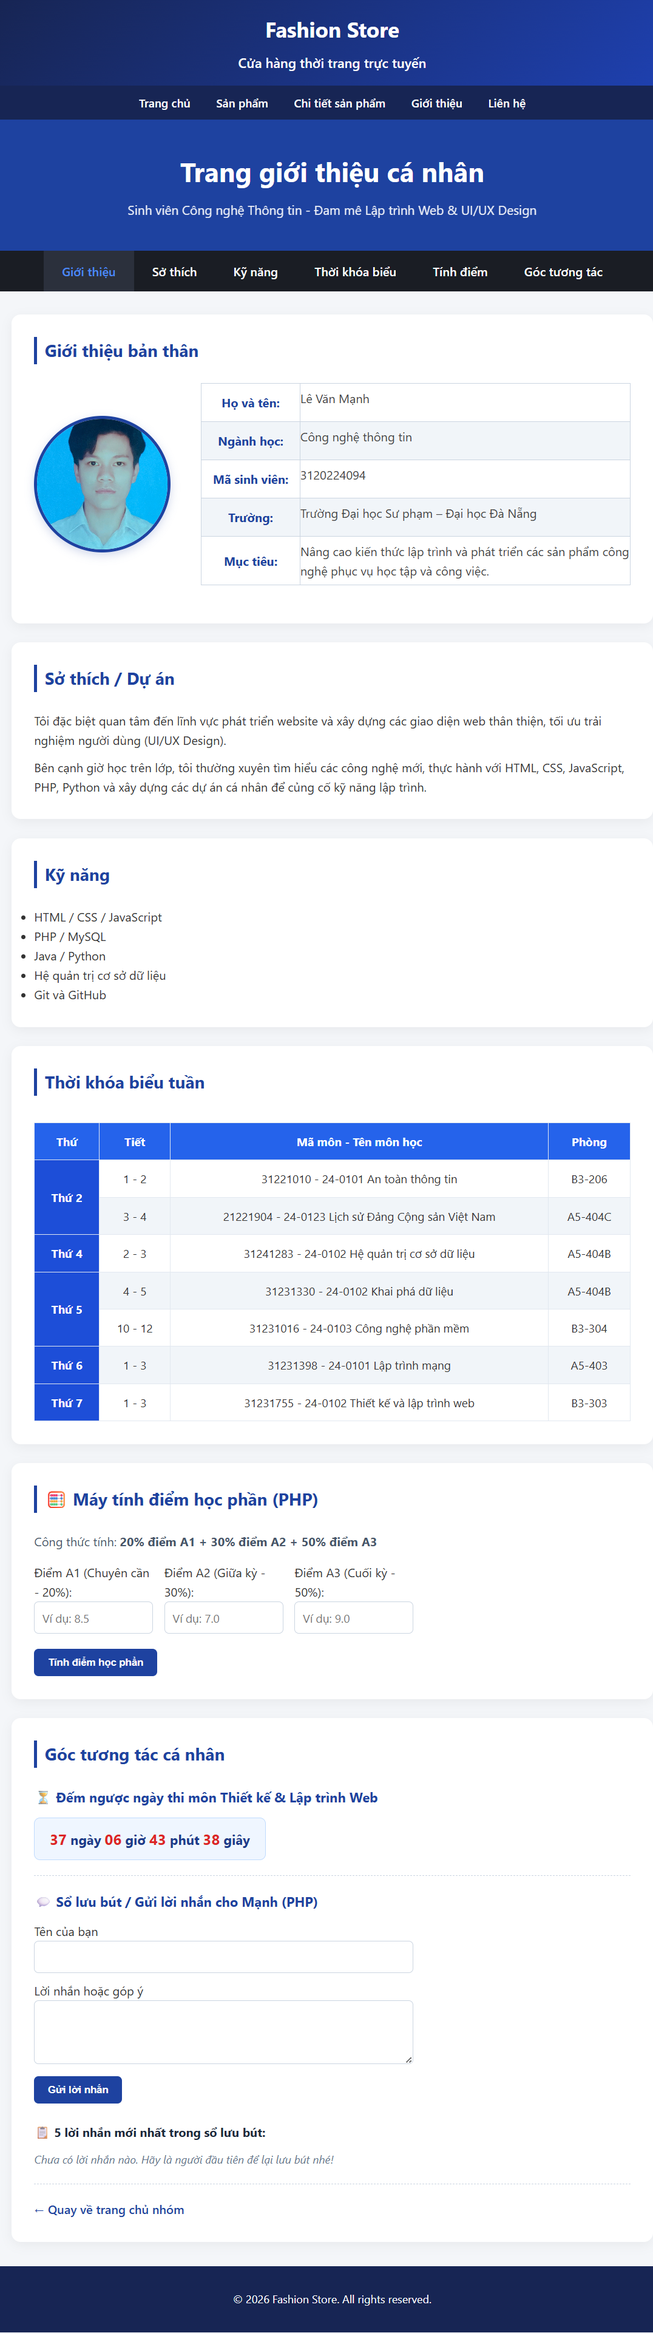
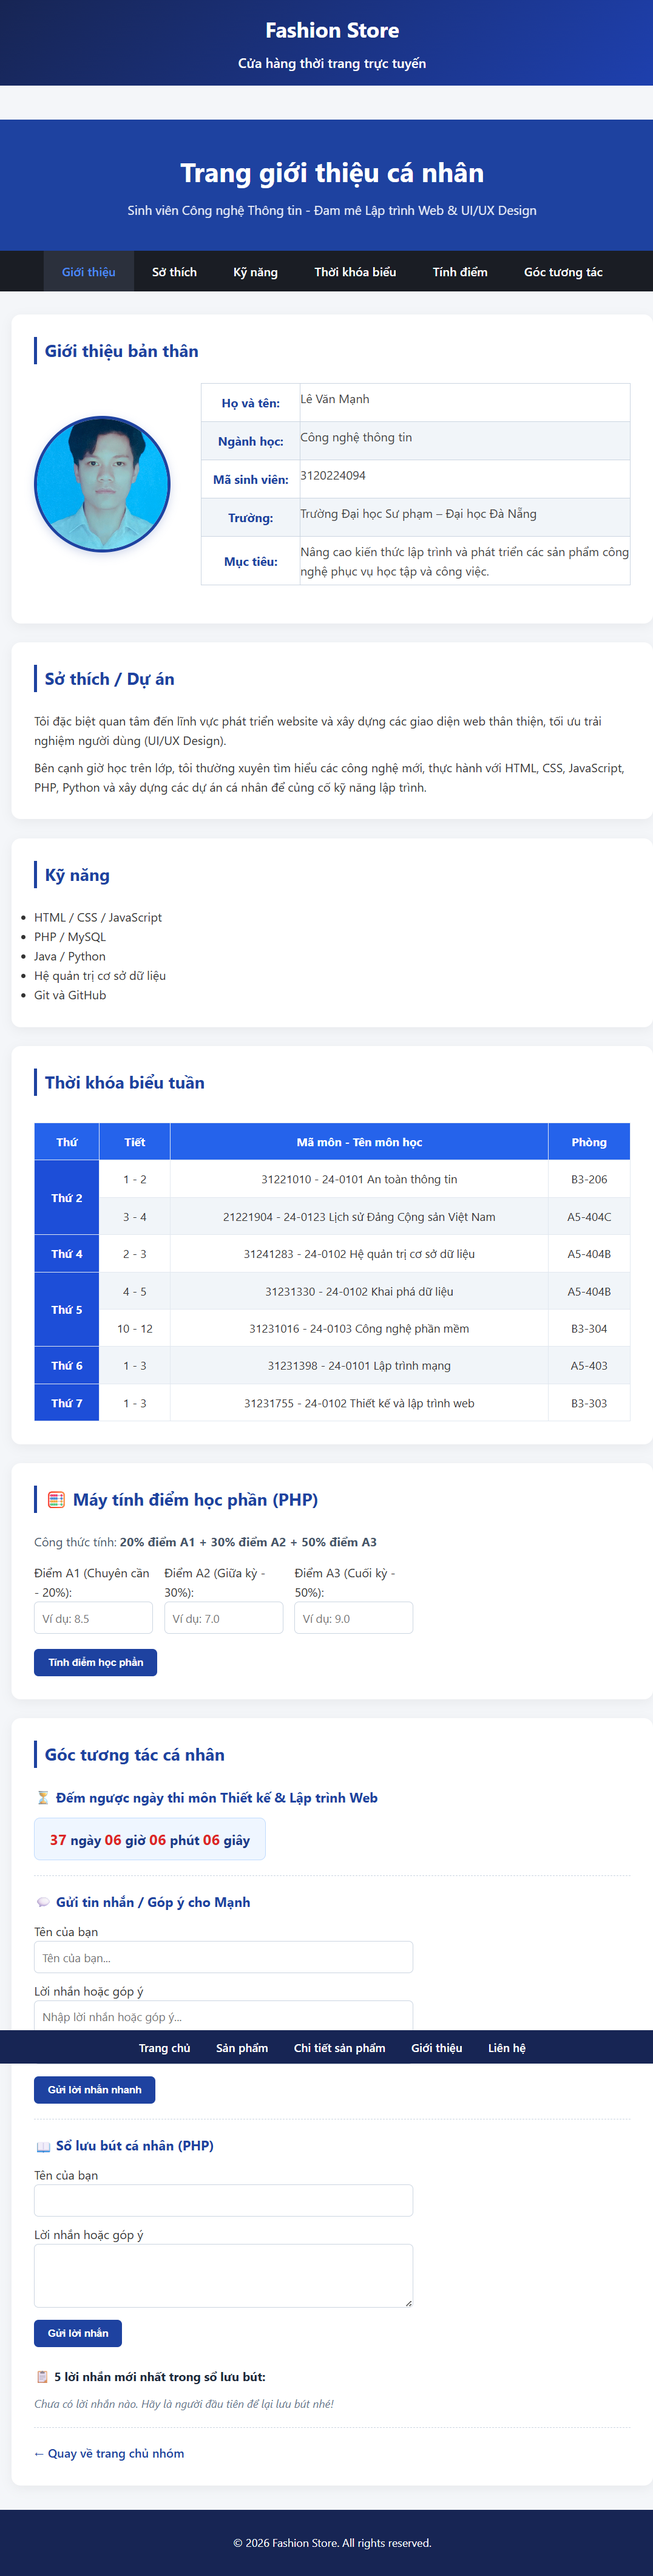
Giu tuong tac Bai 4 tren trang PHP cua Manh

diff --git a/thanhvien/3120224094_manh/js/canhan.js b/thanhvien/3120224094_manh/js/canhan.js
@@ -35,18 +35,30 @@ document.addEventListener('DOMContentLoaded', () => {
     const feedbackForm = document.getElementById('feedback-form');
     const formResponse = document.getElementById('form-response');
 
-    if (feedbackForm) {
+    if (feedbackForm && formResponse) {
         feedbackForm.addEventListener('submit', (e) => {
             e.preventDefault(); // Ngăn load lại trang
 
-            const userName = document.getElementById('user-name').value.trim();
-            const userMsg = document.getElementById('user-msg').value.trim();
+            const nameInput = document.getElementById('user-name');
+            const messageInput = document.getElementById('user-msg');
+            if (!nameInput || !messageInput) {
+                return;
+            }
+
+            const userName = nameInput.value.trim();
+            const userMsg = messageInput.value.trim();
 
             if (userName !== "" && userMsg !== "") {
                 formResponse.style.display = "block";
                 formResponse.style.color = "#15803d";
                 formResponse.style.backgroundColor = "#dcfce7";
-                formResponse.innerHTML = `Cảm ơn <strong>${userName}</strong> đã gửi lời nhắn! Mạnh sẽ phản hồi sớm nhé.`;
+                const nameElement = document.createElement('strong');
+                nameElement.textContent = userName;
+                formResponse.replaceChildren(
+                    document.createTextNode('Cảm ơn '),
+                    nameElement,
+                    document.createTextNode(' đã gửi lời nhắn! Mạnh sẽ phản hồi sớm nhé.')
+                );
 
                 // Reset form
                 feedbackForm.reset();

diff --git a/thanhvien/3120224094_manh/gioithieu.php b/thanhvien/3120224094_manh/gioithieu.php
@@ -330,9 +330,28 @@ require __DIR__ . '/../../inc/header.php';
 
         <hr style="margin: 20px 0; border: none; border-top: 1px dashed #cbd5e1;">
 
-        <!-- Form gửi tin nhắn / Sổ lưu bút PHP -->
+        <!-- Biểu mẫu góp ý JavaScript được giữ lại từ Bài 4 -->
         <div class="interactive-box">
-            <h3>💬 Sổ lưu bút / Gửi lời nhắn cho Mạnh (PHP)</h3>
+            <h3>💬 Gửi tin nhắn / Góp ý cho Mạnh</h3>
+            <form id="feedback-form" class="feedback-form">
+                <div class="form-group">
+                    <label for="user-name">Tên của bạn</label>
+                    <input type="text" id="user-name" maxlength="50" placeholder="Tên của bạn..." required>
+                </div>
+                <div class="form-group">
+                    <label for="user-msg">Lời nhắn hoặc góp ý</label>
+                    <textarea id="user-msg" rows="3" maxlength="500" placeholder="Nhập lời nhắn hoặc góp ý..." required></textarea>
+                </div>
+                <button type="submit" class="btn-submit">Gửi lời nhắn nhanh</button>
+            </form>
+            <div id="form-response" class="form-response" role="status" aria-live="polite"></div>
+        </div>
+
+        <hr style="margin: 20px 0; border: none; border-top: 1px dashed #cbd5e1;">
+
+        <!-- Sổ lưu bút được lưu và kiểm tra bằng PHP -->
+        <div class="interactive-box">
+            <h3>📖 Sổ lưu bút cá nhân (PHP)</h3>
 
             <?php if ($thongBaoLuuBut !== ''): ?>
                 <div style="padding: 12px; background-color: #e0f2fe; border: 1px solid #7dd3fc; border-radius: 6px; color: #0369a1; margin-bottom: 15px; font-weight: 500;">
@@ -344,16 +363,16 @@ require __DIR__ . '/../../inc/header.php';
                 <input type="hidden" name="action" value="luubut">
 
                 <div class="form-group">
-                    <label for="user-name">Tên của bạn</label>
-                    <input type="text" id="user-name" name="ten" value="<?= e($duLieuLuuBut['ten']) ?>" maxlength="50" required>
+                    <label for="php-user-name">Tên của bạn</label>
+                    <input type="text" id="php-user-name" name="ten" value="<?= e($duLieuLuuBut['ten']) ?>" maxlength="50" required>
                     <?php if (isset($loiLuuBut['ten'])): ?>
                         <span style="color: #dc2626; font-size: 0.85rem; margin-top: 4px; display: block;"><?= e($loiLuuBut['ten']) ?></span>
                     <?php endif; ?>
                 </div>
 
                 <div class="form-group">
-                    <label for="user-msg">Lời nhắn hoặc góp ý</label>
-                    <textarea id="user-msg" name="noidung" rows="3" maxlength="500" required><?= e($duLieuLuuBut['noidung']) ?></textarea>
+                    <label for="php-user-msg">Lời nhắn hoặc góp ý</label>
+                    <textarea id="php-user-msg" name="noidung" rows="3" maxlength="500" required><?= e($duLieuLuuBut['noidung']) ?></textarea>
                     <?php if (isset($loiLuuBut['noidung'])): ?>
                         <span style="color: #dc2626; font-size: 0.85rem; margin-top: 4px; display: block;"><?= e($loiLuuBut['noidung']) ?></span>
                     <?php endif; ?>
